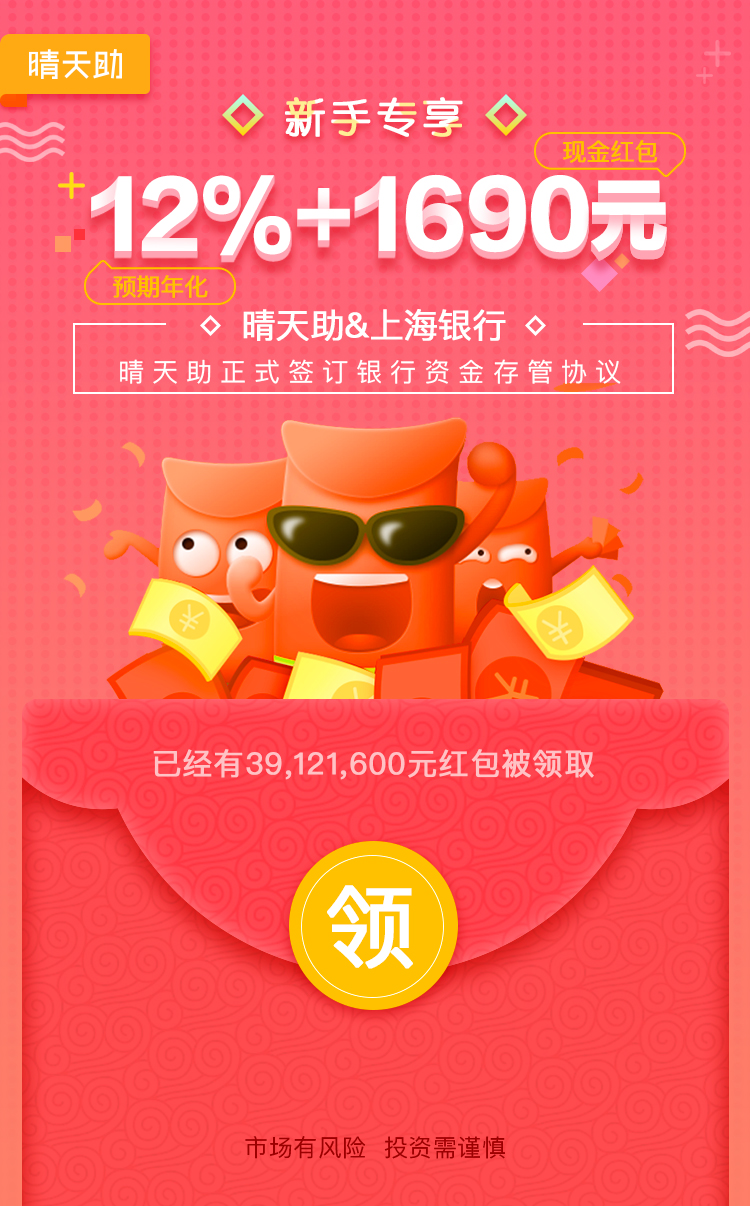
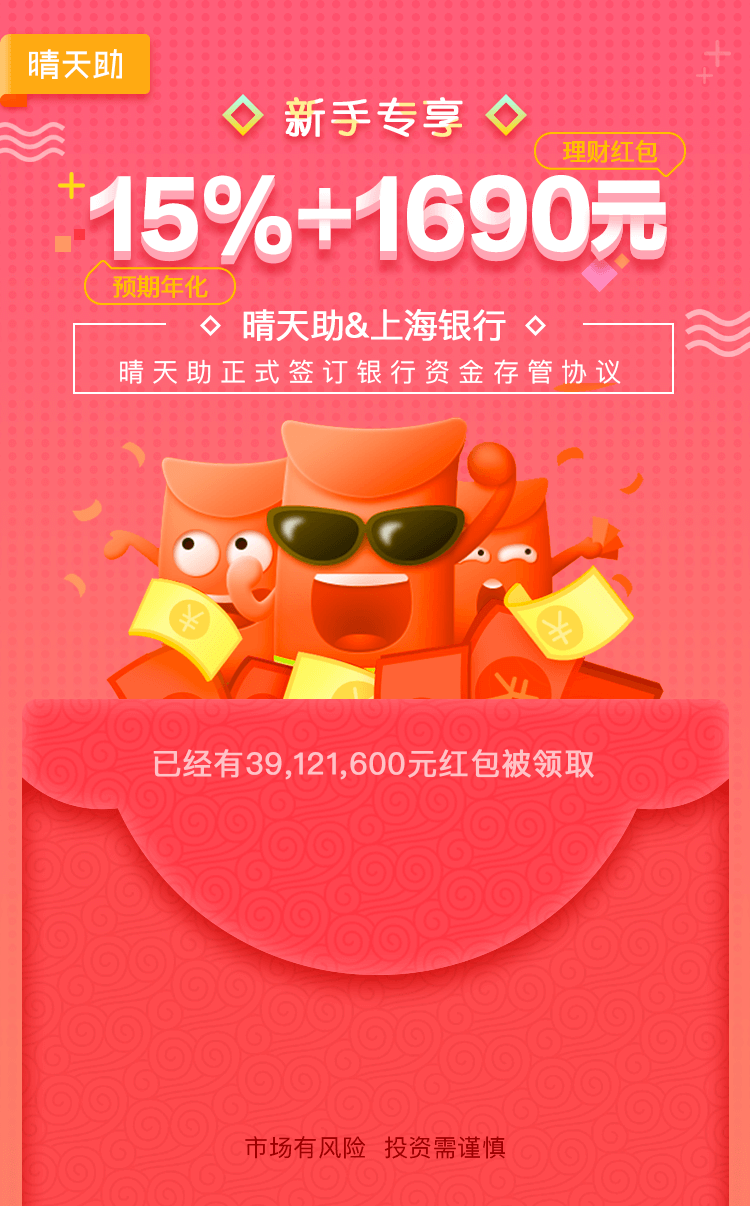
换了渠道页的活动背景图片
修改了渠道的验证码再次获取是的回调函数this的指向问题

diff --git a/channelPc/dest2.3/getRed.html b/channelPc/dest2.3/getRed.html
@@ -23,7 +23,7 @@
                         var request = new XMLHttpRequest();
                         var web_url = window.encodeURIComponent(window.location.href);
                         var js_url  = ta.src;
-                        var url = '//ad.toutiao.com/link_monitor/cdn_failed?web_url=' + web_url + '&js_url=' + js_url + '&convert_id=64973944655';
+                        var url = '//ad.toutiao.com/link_monitor/cdn_failed?web_url=' + web_url + '&js_url=' + js_url + '&convert_id=65608210816';
                         request.open('GET', url, true);
                         request.send(null);
                     }
@@ -32,7 +32,7 @@
             })(window);
             //今日头条的点击监控
             if(window.location.href.indexOf('sn=6220172')!=-1||window.location.href.indexOf('sn=6246652')!=-1){
-                _taq.push({convert_id:"64973944655", event_type:"form"});
+                _taq.push({convert_id:"65608210816", event_type:"form"});
             }
         }
     </script>

diff --git a/channelPc/src2.3/getRed.html b/channelPc/src2.3/getRed.html
@@ -23,7 +23,7 @@
                         var request = new XMLHttpRequest();
                         var web_url = window.encodeURIComponent(window.location.href);
                         var js_url  = ta.src;
-                        var url = '//ad.toutiao.com/link_monitor/cdn_failed?web_url=' + web_url + '&js_url=' + js_url + '&convert_id=64973944655';
+                        var url = '//ad.toutiao.com/link_monitor/cdn_failed?web_url=' + web_url + '&js_url=' + js_url + '&convert_id=65608210816';
                         request.open('GET', url, true);
                         request.send(null);
                     }
@@ -32,7 +32,7 @@
             })(window);
             //今日头条的点击监控
             if(window.location.href.indexOf('sn=6220172')!=-1||window.location.href.indexOf('sn=6246652')!=-1){
-                _taq.push({convert_id:"64973944655", event_type:"form"});
+                _taq.push({convert_id:"65608210816", event_type:"form"});
             }
         }
     </script>

diff --git a/channel/dest2.3/getRed.html b/channel/dest2.3/getRed.html
@@ -23,7 +23,7 @@
                         var request = new XMLHttpRequest();
                         var web_url = window.encodeURIComponent(window.location.href);
                         var js_url  = ta.src;
-                        var url = '//ad.toutiao.com/link_monitor/cdn_failed?web_url=' + web_url + '&js_url=' + js_url + '&convert_id=64973944655';
+                        var url = '//ad.toutiao.com/link_monitor/cdn_failed?web_url=' + web_url + '&js_url=' + js_url + '&convert_id=65608210816';
                         request.open('GET', url, true);
                         request.send(null);
                     }
@@ -32,7 +32,7 @@
             })(window);
             //今日头条提交监控
             if(window.location.href.indexOf('sn=6220172')!=-1||window.location.href.indexOf('sn=6246652')!=-1){
-                _taq.push({convert_id:"64973944655", event_type:"form"});
+                _taq.push({convert_id:"65608210816", event_type:"form"});
             }
         }
     </script>

diff --git a/channel/src2.3/getRed.html b/channel/src2.3/getRed.html
@@ -23,7 +23,7 @@
                         var request = new XMLHttpRequest();
                         var web_url = window.encodeURIComponent(window.location.href);
                         var js_url  = ta.src;
-                        var url = '//ad.toutiao.com/link_monitor/cdn_failed?web_url=' + web_url + '&js_url=' + js_url + '&convert_id=64973944655';
+                        var url = '//ad.toutiao.com/link_monitor/cdn_failed?web_url=' + web_url + '&js_url=' + js_url + '&convert_id=65608210816';
                         request.open('GET', url, true);
                         request.send(null);
                     }
@@ -32,7 +32,7 @@
             })(window);
             //今日头条提交监控
             if(window.location.href.indexOf('sn=6220172')!=-1||window.location.href.indexOf('sn=6246652')!=-1){
-                _taq.push({convert_id:"64973944655", event_type:"form"});
+                _taq.push({convert_id:"65608210816", event_type:"form"});
             }
         }
     </script>

diff --git a/channel/dest2.3/script/main.js b/channel/dest2.3/script/main.js
@@ -210,7 +210,7 @@ autoSetRem.set(750);
                                 _this3.getCheckWordButton = '再次获取';
                                 _this3.Duable = false;
                                 clearInterval(id);
-                                this.loadPicCode(); //60s之后重新加载图片验证码   图片验证码接口在验证正确后会自动清除当前缓存的图片验证码
+                                _this3.loadPicCode(); //60s之后重新加载图片验证码   图片验证码接口在验证正确后会自动清除当前缓存的图片验证码
                             }
                             // console.log(_this3.isClick, '样式改变中..');
                         }, 1000);

diff --git a/channelPc/dest2.3/script/main.js b/channelPc/dest2.3/script/main.js
@@ -210,7 +210,7 @@ autoSetRem.set(750);
                                 _this3.getCheckWordButton = '再次获取';
                                 _this3.Duable = false;
                                 clearInterval(id);
-                                this.loadPicCode(); //60s之后重新加载图片验证码   图片验证码接口在验证正确后会自动清除当前缓存的图片验证码
+                                _this3.loadPicCode(); //60s之后重新加载图片验证码   图片验证码接口在验证正确后会自动清除当前缓存的图片验证码
                             }
                             // console.log(_this3.isClick, '样式改变中..');
                         }, 1000);

diff --git a/channelPc/src2.3/script/main.js b/channelPc/src2.3/script/main.js
@@ -158,7 +158,7 @@
                             _this3.getCheckWordButton = '再次获取';
                             _this3.Duable = false;
                             clearInterval(id);
-                            this.loadPicCode();  //60s之后重新加载图片验证码   图片验证码接口在验证正确后会自动清除当前缓存的图片验证码
+                            _this3.loadPicCode();  //60s之后重新加载图片验证码   图片验证码接口在验证正确后会自动清除当前缓存的图片验证码
                         }
                         // console.log(_this3.isClick, '样式改变中..');
                     }, 1000);

diff --git a/channel/src2.3/script/main.js b/channel/src2.3/script/main.js
@@ -158,7 +158,7 @@ var loadingPage = new Vue({
                         _this3.getCheckWordButton = '再次获取';
                         _this3.Duable = false;
                         clearInterval(id);
-                        this.loadPicCode();  //60s之后重新加载图片验证码   图片验证码接口在验证正确后会自动清除当前缓存的图片验证码
+                        _this3.loadPicCode();  //60s之后重新加载图片验证码   图片验证码接口在验证正确后会自动清除当前缓存的图片验证码
                     }
                     // console.log(_this3.isClick, '样式改变中..');
                 }, 1000);
